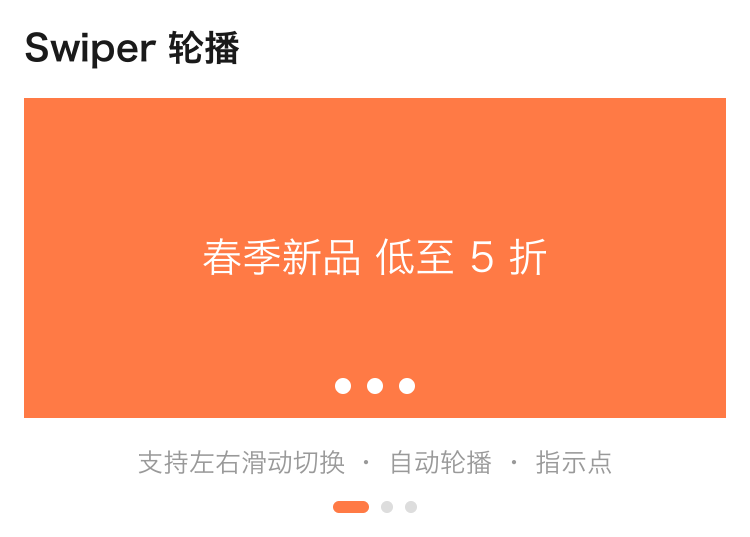
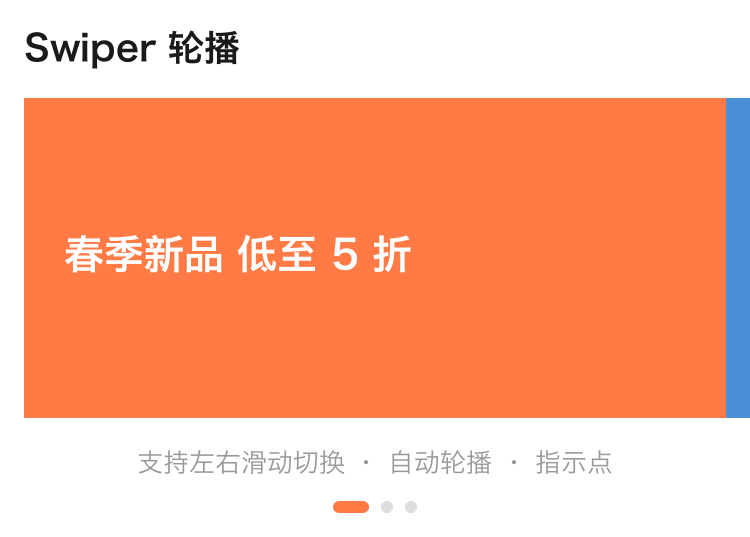
优化编译器

Changed region(s): [[0.092, 0.4171, 0.736, 0.5363], [0.9507, 0.1788, 1.0, 0.8045], [0.4293, 0.6853, 0.552, 0.7449]]

diff --git a/dist-news/pages/home/home.html b/dist-news/pages/home/home.html
@@ -77,6 +77,7 @@
           </div>
         </div>
       </div>
+      <div class="wx-swiper-dots"><i class="wx-swiper-dot active" style="background:#ffffff"></i><i class="wx-swiper-dot" style="background:rgba(255,255,255,0.5)"></i><i class="wx-swiper-dot" style="background:rgba(255,255,255,0.5)"></i></div>
     </div>
     <div class="wx-view top-news" data-tap="onOpenArticle" data-ds-id="9001">
       <span class="wx-text top-badge">置顶</span>
@@ -107,7 +108,7 @@
             <div class="wx-view meta-dot"></div>
             <span class="wx-text meta-comment">328评论</span>
             <div class="wx-view grow"></div>
-            <div class="wx-view act" data-tap="onToggleFav" data-ds-id="101" data-ds-title="国产大飞机再获百架订单 交付节奏明显加快">
+            <div class="wx-view act" data-tap="onToggleFav" data-ds-title="国产大飞机再获百架订单 交付节奏明显加快" data-ds-id="101">
               <i class="wx-icon wxicon wxicon-star_o" style="width:14px;height:14px;color:#bbbbbb"><svg viewBox="0 0 24 24" aria-hidden="true"><path d="M12 1.6 15.2 8.6 22.8 9.5 17.2 14.6 18.7 22 12 18.3 5.3 22 6.8 14.6 1.2 9.5 8.8 8.6Z" fill="none" stroke="currentColor" stroke-width="2" stroke-linejoin="round"/></svg></i>
             </div>
           </div>
@@ -153,7 +154,7 @@
             <div class="wx-view meta-dot"></div>
             <span class="wx-text meta-comment">241评论</span>
             <div class="wx-view grow"></div>
-            <div class="wx-view act" data-tap="onToggleFav" data-ds-id="104" data-ds-title="暑运客流创新高 铁路部门加开夜间高铁">
+            <div class="wx-view act" data-tap="onToggleFav" data-ds-title="暑运客流创新高 铁路部门加开夜间高铁" data-ds-id="104">
               <i class="wx-icon wxicon wxicon-star_o" style="width:14px;height:14px;color:#bbbbbb"><svg viewBox="0 0 24 24" aria-hidden="true"><path d="M12 1.6 15.2 8.6 22.8 9.5 17.2 14.6 18.7 22 12 18.3 5.3 22 6.8 14.6 1.2 9.5 8.8 8.6Z" fill="none" stroke="currentColor" stroke-width="2" stroke-linejoin="round"/></svg></i>
             </div>
           </div>
@@ -208,7 +209,7 @@
     <div class="wx-view bottom-space"></div>
   </div>
 </div>
-<nav class="wx-custom-tabbar"><div class="wx-view news-tabbar"><div class="wx-view tab-item tab-active" data-tap="switchTab" data-ds-path="pages/home/home" data-tabbar-href="../../pages/home/home.html" data-ds-index="0"><i class="wx-icon wxicon wxicon-success" style="width:22px;height:22px;color:#D43C33"><svg viewBox="0 0 24 24" aria-hidden="true"><circle cx="12" cy="12" r="12" fill="currentColor"/><path d="M5.8 12.4 10 16.4 18.2 7.6" fill="none" stroke="#fff" stroke-width="2.6" stroke-linecap="round" stroke-linejoin="round"/></svg></i><span class="wx-text tab-label tab-label-active">首页</span></div><div class="wx-view tab-item " data-tap="switchTab" data-ds-path="pages/video/video" data-tabbar-href="../../pages/video/video.html" data-ds-index="1"><i class="wx-icon wxicon wxicon-waiting" style="width:22px;height:22px;color:#B5B5B5"><svg viewBox="0 0 24 24" aria-hidden="true"><circle cx="12" cy="12" r="12" fill="currentColor"/><rect x="10.9" y="6.2" width="2.2" height="6.6" rx="1.1" fill="#fff"/><rect x="12" y="10.9" width="5.2" height="2.2" rx="1.1" fill="#fff"/><circle cx="12" cy="12" r="1.6" fill="#fff"/></svg></i><span class="wx-text tab-label ">视频</span></div><div class="wx-view tab-item " data-tap="switchTab" data-ds-path="pages/mine/mine" data-tabbar-href="../../pages/mine/mine.html" data-ds-index="2"><i class="wx-icon wxicon wxicon-info" style="width:22px;height:22px;color:#B5B5B5"><svg viewBox="0 0 24 24" aria-hidden="true"><circle cx="12" cy="12" r="12" fill="currentColor"/><circle cx="12" cy="7.6" r="1.7" fill="#fff"/><rect x="10.9" y="10.8" width="2.2" height="7" rx="1.1" fill="#fff"/></svg></i><span class="wx-text tab-label ">我的</span></div></div></nav>
+<nav class="wx-custom-tabbar"><div class="wx-view news-tabbar"><div class="wx-view tab-item tab-active" data-tap="switchTab" data-ds-index="0" data-ds-path="pages/home/home" data-tabbar-href="../../pages/home/home.html"><i class="wx-icon wxicon wxicon-success" style="width:22px;height:22px;color:#D43C33"><svg viewBox="0 0 24 24" aria-hidden="true"><circle cx="12" cy="12" r="12" fill="currentColor"/><path d="M5.8 12.4 10 16.4 18.2 7.6" fill="none" stroke="#fff" stroke-width="2.6" stroke-linecap="round" stroke-linejoin="round"/></svg></i><span class="wx-text tab-label tab-label-active">首页</span></div><div class="wx-view tab-item " data-tap="switchTab" data-ds-index="1" data-ds-path="pages/video/video" data-tabbar-href="../../pages/video/video.html"><i class="wx-icon wxicon wxicon-waiting" style="width:22px;height:22px;color:#B5B5B5"><svg viewBox="0 0 24 24" aria-hidden="true"><circle cx="12" cy="12" r="12" fill="currentColor"/><rect x="10.9" y="6.2" width="2.2" height="6.6" rx="1.1" fill="#fff"/><rect x="12" y="10.9" width="5.2" height="2.2" rx="1.1" fill="#fff"/><circle cx="12" cy="12" r="1.6" fill="#fff"/></svg></i><span class="wx-text tab-label ">视频</span></div><div class="wx-view tab-item " data-tap="switchTab" data-ds-index="2" data-ds-path="pages/mine/mine" data-tabbar-href="../../pages/mine/mine.html"><i class="wx-icon wxicon wxicon-info" style="width:22px;height:22px;color:#B5B5B5"><svg viewBox="0 0 24 24" aria-hidden="true"><circle cx="12" cy="12" r="12" fill="currentColor"/><circle cx="12" cy="7.6" r="1.7" fill="#fff"/><rect x="10.9" y="10.8" width="2.2" height="7" rx="1.1" fill="#fff"/></svg></i><span class="wx-text tab-label ">我的</span></div></div></nav>
 <script>
 (function(){var bar=document.currentScript&&document.currentScript.previousElementSibling;
 if(!bar||!bar.classList.contains('wx-custom-tabbar')){bar=document.querySelector('.wx-custom-tabbar');}

diff --git a/dist-html/pages/index/index.html b/dist-html/pages/index/index.html
@@ -56,6 +56,7 @@
             </div>
           </div>
         </div>
+        <div class="wx-swiper-dots"><i class="wx-swiper-dot active" style="background:#ffffff"></i><i class="wx-swiper-dot" style="background:rgba(255,255,255,0.5)"></i><i class="wx-swiper-dot" style="background:rgba(255,255,255,0.5)"></i></div>
       </div>
     </div>
     <div class="wx-view quick-card anim-fade-up">
@@ -564,7 +565,7 @@
     <div class="wx-view bottom-space"></div>
   </div>
 </div>
-<nav class="wx-custom-tabbar"><div class="wx-view custom-tabbar"><div class="wx-view tabbar-item active" data-tap="switchTab" data-ds-path="pages/index/index" data-tabbar-href="../../pages/index/index.html" data-ds-index="0"><i class="wx-icon wxicon wxicon-success" style="width:24px;height:24px;color:#FF6B35"><svg viewBox="0 0 24 24" aria-hidden="true"><circle cx="12" cy="12" r="12" fill="currentColor"/><path d="M5.8 12.4 10 16.4 18.2 7.6" fill="none" stroke="#fff" stroke-width="2.6" stroke-linecap="round" stroke-linejoin="round"/></svg></i><span class="wx-text tabbar-label label-active">首页</span></div><div class="wx-view tabbar-item " data-tap="switchTab" data-ds-path="pages/category/category" data-tabbar-href="../../pages/category/category.html" data-ds-index="1"><i class="wx-icon wxicon wxicon-info" style="width:24px;height:24px;color:#999"><svg viewBox="0 0 24 24" aria-hidden="true"><circle cx="12" cy="12" r="12" fill="currentColor"/><circle cx="12" cy="7.6" r="1.7" fill="#fff"/><rect x="10.9" y="10.8" width="2.2" height="7" rx="1.1" fill="#fff"/></svg></i><span class="wx-text tabbar-label ">分类</span></div><div class="wx-view tabbar-item " data-tap="switchTab" data-ds-index="2" data-ds-path="pages/cart/cart" data-tabbar-href="../../pages/cart/cart.html"><i class="wx-icon wxicon wxicon-waiting" style="width:24px;height:24px;color:#999"><svg viewBox="0 0 24 24" aria-hidden="true"><circle cx="12" cy="12" r="12" fill="currentColor"/><rect x="10.9" y="6.2" width="2.2" height="6.6" rx="1.1" fill="#fff"/><rect x="12" y="10.9" width="5.2" height="2.2" rx="1.1" fill="#fff"/><circle cx="12" cy="12" r="1.6" fill="#fff"/></svg></i><span class="wx-text tabbar-label ">购物车</span></div><div class="wx-view tabbar-item " data-tap="switchTab" data-ds-index="3" data-ds-path="pages/profile/profile" data-tabbar-href="../../pages/profile/profile.html"><i class="wx-icon wxicon wxicon-warn" style="width:24px;height:24px;color:#999"><svg viewBox="0 0 24 24" aria-hidden="true"><circle cx="12" cy="12" r="12" fill="currentColor"/><rect x="10.9" y="5.4" width="2.2" height="7.2" rx="1.1" fill="#fff"/><circle cx="12" cy="16.6" r="1.7" fill="#fff"/></svg></i><span class="wx-text tabbar-label ">我的</span></div></div></nav>
+<nav class="wx-custom-tabbar"><div class="wx-view custom-tabbar"><div class="wx-view tabbar-item active" data-tap="switchTab" data-ds-index="0" data-ds-path="pages/index/index" data-tabbar-href="../../pages/index/index.html"><i class="wx-icon wxicon wxicon-success" style="width:24px;height:24px;color:#FF6B35"><svg viewBox="0 0 24 24" aria-hidden="true"><circle cx="12" cy="12" r="12" fill="currentColor"/><path d="M5.8 12.4 10 16.4 18.2 7.6" fill="none" stroke="#fff" stroke-width="2.6" stroke-linecap="round" stroke-linejoin="round"/></svg></i><span class="wx-text tabbar-label label-active">首页</span></div><div class="wx-view tabbar-item " data-tap="switchTab" data-ds-path="pages/category/category" data-tabbar-href="../../pages/category/category.html" data-ds-index="1"><i class="wx-icon wxicon wxicon-info" style="width:24px;height:24px;color:#999"><svg viewBox="0 0 24 24" aria-hidden="true"><circle cx="12" cy="12" r="12" fill="currentColor"/><circle cx="12" cy="7.6" r="1.7" fill="#fff"/><rect x="10.9" y="10.8" width="2.2" height="7" rx="1.1" fill="#fff"/></svg></i><span class="wx-text tabbar-label ">分类</span></div><div class="wx-view tabbar-item " data-tap="switchTab" data-ds-index="2" data-ds-path="pages/cart/cart" data-tabbar-href="../../pages/cart/cart.html"><i class="wx-icon wxicon wxicon-waiting" style="width:24px;height:24px;color:#999"><svg viewBox="0 0 24 24" aria-hidden="true"><circle cx="12" cy="12" r="12" fill="currentColor"/><rect x="10.9" y="6.2" width="2.2" height="6.6" rx="1.1" fill="#fff"/><rect x="12" y="10.9" width="5.2" height="2.2" rx="1.1" fill="#fff"/><circle cx="12" cy="12" r="1.6" fill="#fff"/></svg></i><span class="wx-text tabbar-label ">购物车</span></div><div class="wx-view tabbar-item " data-tap="switchTab" data-ds-path="pages/profile/profile" data-tabbar-href="../../pages/profile/profile.html" data-ds-index="3"><i class="wx-icon wxicon wxicon-warn" style="width:24px;height:24px;color:#999"><svg viewBox="0 0 24 24" aria-hidden="true"><circle cx="12" cy="12" r="12" fill="currentColor"/><rect x="10.9" y="5.4" width="2.2" height="7.2" rx="1.1" fill="#fff"/><circle cx="12" cy="16.6" r="1.7" fill="#fff"/></svg></i><span class="wx-text tabbar-label ">我的</span></div></div></nav>
 <script>
 (function(){var bar=document.currentScript&&document.currentScript.previousElementSibling;
 if(!bar||!bar.classList.contains('wx-custom-tabbar')){bar=document.querySelector('.wx-custom-tabbar');}

diff --git a/dist-html/pages/profile/profile.html b/dist-html/pages/profile/profile.html
@@ -117,7 +117,7 @@
     <div class="wx-view bottom-space"></div>
   </div>
 </div>
-<nav class="wx-custom-tabbar"><div class="wx-view custom-tabbar"><div class="wx-view tabbar-item " data-tap="switchTab" data-ds-path="pages/index/index" data-tabbar-href="../../pages/index/index.html" data-ds-index="0"><i class="wx-icon wxicon wxicon-success" style="width:24px;height:24px;color:#999"><svg viewBox="0 0 24 24" aria-hidden="true"><circle cx="12" cy="12" r="12" fill="currentColor"/><path d="M5.8 12.4 10 16.4 18.2 7.6" fill="none" stroke="#fff" stroke-width="2.6" stroke-linecap="round" stroke-linejoin="round"/></svg></i><span class="wx-text tabbar-label ">首页</span></div><div class="wx-view tabbar-item " data-tap="switchTab" data-ds-path="pages/category/category" data-tabbar-href="../../pages/category/category.html" data-ds-index="1"><i class="wx-icon wxicon wxicon-info" style="width:24px;height:24px;color:#999"><svg viewBox="0 0 24 24" aria-hidden="true"><circle cx="12" cy="12" r="12" fill="currentColor"/><circle cx="12" cy="7.6" r="1.7" fill="#fff"/><rect x="10.9" y="10.8" width="2.2" height="7" rx="1.1" fill="#fff"/></svg></i><span class="wx-text tabbar-label ">分类</span></div><div class="wx-view tabbar-item " data-tap="switchTab" data-ds-index="2" data-ds-path="pages/cart/cart" data-tabbar-href="../../pages/cart/cart.html"><i class="wx-icon wxicon wxicon-waiting" style="width:24px;height:24px;color:#999"><svg viewBox="0 0 24 24" aria-hidden="true"><circle cx="12" cy="12" r="12" fill="currentColor"/><rect x="10.9" y="6.2" width="2.2" height="6.6" rx="1.1" fill="#fff"/><rect x="12" y="10.9" width="5.2" height="2.2" rx="1.1" fill="#fff"/><circle cx="12" cy="12" r="1.6" fill="#fff"/></svg></i><span class="wx-text tabbar-label ">购物车</span></div><div class="wx-view tabbar-item active" data-tap="switchTab" data-ds-index="3" data-ds-path="pages/profile/profile" data-tabbar-href="../../pages/profile/profile.html"><i class="wx-icon wxicon wxicon-warn" style="width:24px;height:24px;color:#FF6B35"><svg viewBox="0 0 24 24" aria-hidden="true"><circle cx="12" cy="12" r="12" fill="currentColor"/><rect x="10.9" y="5.4" width="2.2" height="7.2" rx="1.1" fill="#fff"/><circle cx="12" cy="16.6" r="1.7" fill="#fff"/></svg></i><span class="wx-text tabbar-label label-active">我的</span></div></div></nav>
+<nav class="wx-custom-tabbar"><div class="wx-view custom-tabbar"><div class="wx-view tabbar-item " data-tap="switchTab" data-ds-index="0" data-ds-path="pages/index/index" data-tabbar-href="../../pages/index/index.html"><i class="wx-icon wxicon wxicon-success" style="width:24px;height:24px;color:#999"><svg viewBox="0 0 24 24" aria-hidden="true"><circle cx="12" cy="12" r="12" fill="currentColor"/><path d="M5.8 12.4 10 16.4 18.2 7.6" fill="none" stroke="#fff" stroke-width="2.6" stroke-linecap="round" stroke-linejoin="round"/></svg></i><span class="wx-text tabbar-label ">首页</span></div><div class="wx-view tabbar-item " data-tap="switchTab" data-ds-index="1" data-ds-path="pages/category/category" data-tabbar-href="../../pages/category/category.html"><i class="wx-icon wxicon wxicon-info" style="width:24px;height:24px;color:#999"><svg viewBox="0 0 24 24" aria-hidden="true"><circle cx="12" cy="12" r="12" fill="currentColor"/><circle cx="12" cy="7.6" r="1.7" fill="#fff"/><rect x="10.9" y="10.8" width="2.2" height="7" rx="1.1" fill="#fff"/></svg></i><span class="wx-text tabbar-label ">分类</span></div><div class="wx-view tabbar-item " data-tap="switchTab" data-ds-path="pages/cart/cart" data-tabbar-href="../../pages/cart/cart.html" data-ds-index="2"><i class="wx-icon wxicon wxicon-waiting" style="width:24px;height:24px;color:#999"><svg viewBox="0 0 24 24" aria-hidden="true"><circle cx="12" cy="12" r="12" fill="currentColor"/><rect x="10.9" y="6.2" width="2.2" height="6.6" rx="1.1" fill="#fff"/><rect x="12" y="10.9" width="5.2" height="2.2" rx="1.1" fill="#fff"/><circle cx="12" cy="12" r="1.6" fill="#fff"/></svg></i><span class="wx-text tabbar-label ">购物车</span></div><div class="wx-view tabbar-item active" data-tap="switchTab" data-ds-index="3" data-ds-path="pages/profile/profile" data-tabbar-href="../../pages/profile/profile.html"><i class="wx-icon wxicon wxicon-warn" style="width:24px;height:24px;color:#FF6B35"><svg viewBox="0 0 24 24" aria-hidden="true"><circle cx="12" cy="12" r="12" fill="currentColor"/><rect x="10.9" y="5.4" width="2.2" height="7.2" rx="1.1" fill="#fff"/><circle cx="12" cy="16.6" r="1.7" fill="#fff"/></svg></i><span class="wx-text tabbar-label label-active">我的</span></div></div></nav>
 <script>
 (function(){var bar=document.currentScript&&document.currentScript.previousElementSibling;
 if(!bar||!bar.classList.contains('wx-custom-tabbar')){bar=document.querySelector('.wx-custom-tabbar');}

diff --git a/dist-html/pages/category/category.html b/dist-html/pages/category/category.html
@@ -145,7 +145,7 @@
     </div>
   </div>
 </div>
-<nav class="wx-custom-tabbar"><div class="wx-view custom-tabbar"><div class="wx-view tabbar-item " data-tap="switchTab" data-ds-index="0" data-ds-path="pages/index/index" data-tabbar-href="../../pages/index/index.html"><i class="wx-icon wxicon wxicon-success" style="width:24px;height:24px;color:#999"><svg viewBox="0 0 24 24" aria-hidden="true"><circle cx="12" cy="12" r="12" fill="currentColor"/><path d="M5.8 12.4 10 16.4 18.2 7.6" fill="none" stroke="#fff" stroke-width="2.6" stroke-linecap="round" stroke-linejoin="round"/></svg></i><span class="wx-text tabbar-label ">首页</span></div><div class="wx-view tabbar-item active" data-tap="switchTab" data-ds-path="pages/category/category" data-tabbar-href="../../pages/category/category.html" data-ds-index="1"><i class="wx-icon wxicon wxicon-info" style="width:24px;height:24px;color:#FF6B35"><svg viewBox="0 0 24 24" aria-hidden="true"><circle cx="12" cy="12" r="12" fill="currentColor"/><circle cx="12" cy="7.6" r="1.7" fill="#fff"/><rect x="10.9" y="10.8" width="2.2" height="7" rx="1.1" fill="#fff"/></svg></i><span class="wx-text tabbar-label label-active">分类</span></div><div class="wx-view tabbar-item " data-tap="switchTab" data-ds-path="pages/cart/cart" data-tabbar-href="../../pages/cart/cart.html" data-ds-index="2"><i class="wx-icon wxicon wxicon-waiting" style="width:24px;height:24px;color:#999"><svg viewBox="0 0 24 24" aria-hidden="true"><circle cx="12" cy="12" r="12" fill="currentColor"/><rect x="10.9" y="6.2" width="2.2" height="6.6" rx="1.1" fill="#fff"/><rect x="12" y="10.9" width="5.2" height="2.2" rx="1.1" fill="#fff"/><circle cx="12" cy="12" r="1.6" fill="#fff"/></svg></i><span class="wx-text tabbar-label ">购物车</span></div><div class="wx-view tabbar-item " data-tap="switchTab" data-ds-index="3" data-ds-path="pages/profile/profile" data-tabbar-href="../../pages/profile/profile.html"><i class="wx-icon wxicon wxicon-warn" style="width:24px;height:24px;color:#999"><svg viewBox="0 0 24 24" aria-hidden="true"><circle cx="12" cy="12" r="12" fill="currentColor"/><rect x="10.9" y="5.4" width="2.2" height="7.2" rx="1.1" fill="#fff"/><circle cx="12" cy="16.6" r="1.7" fill="#fff"/></svg></i><span class="wx-text tabbar-label ">我的</span></div></div></nav>
+<nav class="wx-custom-tabbar"><div class="wx-view custom-tabbar"><div class="wx-view tabbar-item " data-tap="switchTab" data-ds-path="pages/index/index" data-tabbar-href="../../pages/index/index.html" data-ds-index="0"><i class="wx-icon wxicon wxicon-success" style="width:24px;height:24px;color:#999"><svg viewBox="0 0 24 24" aria-hidden="true"><circle cx="12" cy="12" r="12" fill="currentColor"/><path d="M5.8 12.4 10 16.4 18.2 7.6" fill="none" stroke="#fff" stroke-width="2.6" stroke-linecap="round" stroke-linejoin="round"/></svg></i><span class="wx-text tabbar-label ">首页</span></div><div class="wx-view tabbar-item active" data-tap="switchTab" data-ds-path="pages/category/category" data-tabbar-href="../../pages/category/category.html" data-ds-index="1"><i class="wx-icon wxicon wxicon-info" style="width:24px;height:24px;color:#FF6B35"><svg viewBox="0 0 24 24" aria-hidden="true"><circle cx="12" cy="12" r="12" fill="currentColor"/><circle cx="12" cy="7.6" r="1.7" fill="#fff"/><rect x="10.9" y="10.8" width="2.2" height="7" rx="1.1" fill="#fff"/></svg></i><span class="wx-text tabbar-label label-active">分类</span></div><div class="wx-view tabbar-item " data-tap="switchTab" data-ds-index="2" data-ds-path="pages/cart/cart" data-tabbar-href="../../pages/cart/cart.html"><i class="wx-icon wxicon wxicon-waiting" style="width:24px;height:24px;color:#999"><svg viewBox="0 0 24 24" aria-hidden="true"><circle cx="12" cy="12" r="12" fill="currentColor"/><rect x="10.9" y="6.2" width="2.2" height="6.6" rx="1.1" fill="#fff"/><rect x="12" y="10.9" width="5.2" height="2.2" rx="1.1" fill="#fff"/><circle cx="12" cy="12" r="1.6" fill="#fff"/></svg></i><span class="wx-text tabbar-label ">购物车</span></div><div class="wx-view tabbar-item " data-tap="switchTab" data-ds-path="pages/profile/profile" data-tabbar-href="../../pages/profile/profile.html" data-ds-index="3"><i class="wx-icon wxicon wxicon-warn" style="width:24px;height:24px;color:#999"><svg viewBox="0 0 24 24" aria-hidden="true"><circle cx="12" cy="12" r="12" fill="currentColor"/><rect x="10.9" y="5.4" width="2.2" height="7.2" rx="1.1" fill="#fff"/><circle cx="12" cy="16.6" r="1.7" fill="#fff"/></svg></i><span class="wx-text tabbar-label ">我的</span></div></div></nav>
 <script>
 (function(){var bar=document.currentScript&&document.currentScript.previousElementSibling;
 if(!bar||!bar.classList.contains('wx-custom-tabbar')){bar=document.querySelector('.wx-custom-tabbar');}

diff --git a/dist-html/pages/cart/cart.html b/dist-html/pages/cart/cart.html
@@ -25,7 +25,7 @@
     </div>
   </div>
 </div>
-<nav class="wx-custom-tabbar"><div class="wx-view custom-tabbar"><div class="wx-view tabbar-item " data-tap="switchTab" data-ds-index="0" data-ds-path="pages/index/index" data-tabbar-href="../../pages/index/index.html"><i class="wx-icon wxicon wxicon-success" style="width:24px;height:24px;color:#999"><svg viewBox="0 0 24 24" aria-hidden="true"><circle cx="12" cy="12" r="12" fill="currentColor"/><path d="M5.8 12.4 10 16.4 18.2 7.6" fill="none" stroke="#fff" stroke-width="2.6" stroke-linecap="round" stroke-linejoin="round"/></svg></i><span class="wx-text tabbar-label ">首页</span></div><div class="wx-view tabbar-item " data-tap="switchTab" data-ds-path="pages/category/category" data-tabbar-href="../../pages/category/category.html" data-ds-index="1"><i class="wx-icon wxicon wxicon-info" style="width:24px;height:24px;color:#999"><svg viewBox="0 0 24 24" aria-hidden="true"><circle cx="12" cy="12" r="12" fill="currentColor"/><circle cx="12" cy="7.6" r="1.7" fill="#fff"/><rect x="10.9" y="10.8" width="2.2" height="7" rx="1.1" fill="#fff"/></svg></i><span class="wx-text tabbar-label ">分类</span></div><div class="wx-view tabbar-item active" data-tap="switchTab" data-ds-index="2" data-ds-path="pages/cart/cart" data-tabbar-href="../../pages/cart/cart.html"><i class="wx-icon wxicon wxicon-waiting" style="width:24px;height:24px;color:#FF6B35"><svg viewBox="0 0 24 24" aria-hidden="true"><circle cx="12" cy="12" r="12" fill="currentColor"/><rect x="10.9" y="6.2" width="2.2" height="6.6" rx="1.1" fill="#fff"/><rect x="12" y="10.9" width="5.2" height="2.2" rx="1.1" fill="#fff"/><circle cx="12" cy="12" r="1.6" fill="#fff"/></svg></i><span class="wx-text tabbar-label label-active">购物车</span></div><div class="wx-view tabbar-item " data-tap="switchTab" data-ds-index="3" data-ds-path="pages/profile/profile" data-tabbar-href="../../pages/profile/profile.html"><i class="wx-icon wxicon wxicon-warn" style="width:24px;height:24px;color:#999"><svg viewBox="0 0 24 24" aria-hidden="true"><circle cx="12" cy="12" r="12" fill="currentColor"/><rect x="10.9" y="5.4" width="2.2" height="7.2" rx="1.1" fill="#fff"/><circle cx="12" cy="16.6" r="1.7" fill="#fff"/></svg></i><span class="wx-text tabbar-label ">我的</span></div></div></nav>
+<nav class="wx-custom-tabbar"><div class="wx-view custom-tabbar"><div class="wx-view tabbar-item " data-tap="switchTab" data-ds-path="pages/index/index" data-tabbar-href="../../pages/index/index.html" data-ds-index="0"><i class="wx-icon wxicon wxicon-success" style="width:24px;height:24px;color:#999"><svg viewBox="0 0 24 24" aria-hidden="true"><circle cx="12" cy="12" r="12" fill="currentColor"/><path d="M5.8 12.4 10 16.4 18.2 7.6" fill="none" stroke="#fff" stroke-width="2.6" stroke-linecap="round" stroke-linejoin="round"/></svg></i><span class="wx-text tabbar-label ">首页</span></div><div class="wx-view tabbar-item " data-tap="switchTab" data-ds-path="pages/category/category" data-tabbar-href="../../pages/category/category.html" data-ds-index="1"><i class="wx-icon wxicon wxicon-info" style="width:24px;height:24px;color:#999"><svg viewBox="0 0 24 24" aria-hidden="true"><circle cx="12" cy="12" r="12" fill="currentColor"/><circle cx="12" cy="7.6" r="1.7" fill="#fff"/><rect x="10.9" y="10.8" width="2.2" height="7" rx="1.1" fill="#fff"/></svg></i><span class="wx-text tabbar-label ">分类</span></div><div class="wx-view tabbar-item active" data-tap="switchTab" data-ds-index="2" data-ds-path="pages/cart/cart" data-tabbar-href="../../pages/cart/cart.html"><i class="wx-icon wxicon wxicon-waiting" style="width:24px;height:24px;color:#FF6B35"><svg viewBox="0 0 24 24" aria-hidden="true"><circle cx="12" cy="12" r="12" fill="currentColor"/><rect x="10.9" y="6.2" width="2.2" height="6.6" rx="1.1" fill="#fff"/><rect x="12" y="10.9" width="5.2" height="2.2" rx="1.1" fill="#fff"/><circle cx="12" cy="12" r="1.6" fill="#fff"/></svg></i><span class="wx-text tabbar-label label-active">购物车</span></div><div class="wx-view tabbar-item " data-tap="switchTab" data-ds-path="pages/profile/profile" data-tabbar-href="../../pages/profile/profile.html" data-ds-index="3"><i class="wx-icon wxicon wxicon-warn" style="width:24px;height:24px;color:#999"><svg viewBox="0 0 24 24" aria-hidden="true"><circle cx="12" cy="12" r="12" fill="currentColor"/><rect x="10.9" y="5.4" width="2.2" height="7.2" rx="1.1" fill="#fff"/><circle cx="12" cy="16.6" r="1.7" fill="#fff"/></svg></i><span class="wx-text tabbar-label ">我的</span></div></div></nav>
 <script>
 (function(){var bar=document.currentScript&&document.currentScript.previousElementSibling;
 if(!bar||!bar.classList.contains('wx-custom-tabbar')){bar=document.querySelector('.wx-custom-tabbar');}

diff --git a/dist-news/pages/video/video.html b/dist-news/pages/video/video.html
@@ -102,7 +102,7 @@
         <div class="wx-view meta-dot"></div>
         <span class="wx-text meta-comment">274评论</span>
         <div class="wx-view grow"></div>
-        <div class="wx-view act" data-tap="onToggleFav" data-ds-title="老街区改造前后对比，变化令人惊叹" data-ds-id="503">
+        <div class="wx-view act" data-tap="onToggleFav" data-ds-id="503" data-ds-title="老街区改造前后对比，变化令人惊叹">
           <i class="wx-icon wxicon wxicon-star_o" style="width:14px;height:14px;color:#bbbbbb"><svg viewBox="0 0 24 24" aria-hidden="true"><path d="M12 1.6 15.2 8.6 22.8 9.5 17.2 14.6 18.7 22 12 18.3 5.3 22 6.8 14.6 1.2 9.5 8.8 8.6Z" fill="none" stroke="currentColor" stroke-width="2" stroke-linejoin="round"/></svg></i>
         </div>
       </div>
@@ -110,7 +110,7 @@
     <div class="wx-view bottom-space"></div>
   </div>
 </div>
-<nav class="wx-custom-tabbar"><div class="wx-view news-tabbar"><div class="wx-view tab-item " data-tap="switchTab" data-ds-index="0" data-ds-path="pages/home/home" data-tabbar-href="../../pages/home/home.html"><i class="wx-icon wxicon wxicon-success" style="width:22px;height:22px;color:#B5B5B5"><svg viewBox="0 0 24 24" aria-hidden="true"><circle cx="12" cy="12" r="12" fill="currentColor"/><path d="M5.8 12.4 10 16.4 18.2 7.6" fill="none" stroke="#fff" stroke-width="2.6" stroke-linecap="round" stroke-linejoin="round"/></svg></i><span class="wx-text tab-label ">首页</span></div><div class="wx-view tab-item tab-active" data-tap="switchTab" data-ds-index="1" data-ds-path="pages/video/video" data-tabbar-href="../../pages/video/video.html"><i class="wx-icon wxicon wxicon-waiting" style="width:22px;height:22px;color:#D43C33"><svg viewBox="0 0 24 24" aria-hidden="true"><circle cx="12" cy="12" r="12" fill="currentColor"/><rect x="10.9" y="6.2" width="2.2" height="6.6" rx="1.1" fill="#fff"/><rect x="12" y="10.9" width="5.2" height="2.2" rx="1.1" fill="#fff"/><circle cx="12" cy="12" r="1.6" fill="#fff"/></svg></i><span class="wx-text tab-label tab-label-active">视频</span></div><div class="wx-view tab-item " data-tap="switchTab" data-ds-index="2" data-ds-path="pages/mine/mine" data-tabbar-href="../../pages/mine/mine.html"><i class="wx-icon wxicon wxicon-info" style="width:22px;height:22px;color:#B5B5B5"><svg viewBox="0 0 24 24" aria-hidden="true"><circle cx="12" cy="12" r="12" fill="currentColor"/><circle cx="12" cy="7.6" r="1.7" fill="#fff"/><rect x="10.9" y="10.8" width="2.2" height="7" rx="1.1" fill="#fff"/></svg></i><span class="wx-text tab-label ">我的</span></div></div></nav>
+<nav class="wx-custom-tabbar"><div class="wx-view news-tabbar"><div class="wx-view tab-item " data-tap="switchTab" data-ds-path="pages/home/home" data-tabbar-href="../../pages/home/home.html" data-ds-index="0"><i class="wx-icon wxicon wxicon-success" style="width:22px;height:22px;color:#B5B5B5"><svg viewBox="0 0 24 24" aria-hidden="true"><circle cx="12" cy="12" r="12" fill="currentColor"/><path d="M5.8 12.4 10 16.4 18.2 7.6" fill="none" stroke="#fff" stroke-width="2.6" stroke-linecap="round" stroke-linejoin="round"/></svg></i><span class="wx-text tab-label ">首页</span></div><div class="wx-view tab-item tab-active" data-tap="switchTab" data-ds-index="1" data-ds-path="pages/video/video" data-tabbar-href="../../pages/video/video.html"><i class="wx-icon wxicon wxicon-waiting" style="width:22px;height:22px;color:#D43C33"><svg viewBox="0 0 24 24" aria-hidden="true"><circle cx="12" cy="12" r="12" fill="currentColor"/><rect x="10.9" y="6.2" width="2.2" height="6.6" rx="1.1" fill="#fff"/><rect x="12" y="10.9" width="5.2" height="2.2" rx="1.1" fill="#fff"/><circle cx="12" cy="12" r="1.6" fill="#fff"/></svg></i><span class="wx-text tab-label tab-label-active">视频</span></div><div class="wx-view tab-item " data-tap="switchTab" data-ds-path="pages/mine/mine" data-tabbar-href="../../pages/mine/mine.html" data-ds-index="2"><i class="wx-icon wxicon wxicon-info" style="width:22px;height:22px;color:#B5B5B5"><svg viewBox="0 0 24 24" aria-hidden="true"><circle cx="12" cy="12" r="12" fill="currentColor"/><circle cx="12" cy="7.6" r="1.7" fill="#fff"/><rect x="10.9" y="10.8" width="2.2" height="7" rx="1.1" fill="#fff"/></svg></i><span class="wx-text tab-label ">我的</span></div></div></nav>
 <script>
 (function(){var bar=document.currentScript&&document.currentScript.previousElementSibling;
 if(!bar||!bar.classList.contains('wx-custom-tabbar')){bar=document.querySelector('.wx-custom-tabbar');}

diff --git a/dist-news/pages/mine/mine.html b/dist-news/pages/mine/mine.html
@@ -87,7 +87,7 @@
     <div class="wx-view bottom-space"></div>
   </div>
 </div>
-<nav class="wx-custom-tabbar"><div class="wx-view news-tabbar"><div class="wx-view tab-item " data-tap="switchTab" data-ds-index="0" data-ds-path="pages/home/home" data-tabbar-href="../../pages/home/home.html"><i class="wx-icon wxicon wxicon-success" style="width:22px;height:22px;color:#B5B5B5"><svg viewBox="0 0 24 24" aria-hidden="true"><circle cx="12" cy="12" r="12" fill="currentColor"/><path d="M5.8 12.4 10 16.4 18.2 7.6" fill="none" stroke="#fff" stroke-width="2.6" stroke-linecap="round" stroke-linejoin="round"/></svg></i><span class="wx-text tab-label ">首页</span></div><div class="wx-view tab-item " data-tap="switchTab" data-ds-index="1" data-ds-path="pages/video/video" data-tabbar-href="../../pages/video/video.html"><i class="wx-icon wxicon wxicon-waiting" style="width:22px;height:22px;color:#B5B5B5"><svg viewBox="0 0 24 24" aria-hidden="true"><circle cx="12" cy="12" r="12" fill="currentColor"/><rect x="10.9" y="6.2" width="2.2" height="6.6" rx="1.1" fill="#fff"/><rect x="12" y="10.9" width="5.2" height="2.2" rx="1.1" fill="#fff"/><circle cx="12" cy="12" r="1.6" fill="#fff"/></svg></i><span class="wx-text tab-label ">视频</span></div><div class="wx-view tab-item tab-active" data-tap="switchTab" data-ds-index="2" data-ds-path="pages/mine/mine" data-tabbar-href="../../pages/mine/mine.html"><i class="wx-icon wxicon wxicon-info" style="width:22px;height:22px;color:#D43C33"><svg viewBox="0 0 24 24" aria-hidden="true"><circle cx="12" cy="12" r="12" fill="currentColor"/><circle cx="12" cy="7.6" r="1.7" fill="#fff"/><rect x="10.9" y="10.8" width="2.2" height="7" rx="1.1" fill="#fff"/></svg></i><span class="wx-text tab-label tab-label-active">我的</span></div></div></nav>
+<nav class="wx-custom-tabbar"><div class="wx-view news-tabbar"><div class="wx-view tab-item " data-tap="switchTab" data-ds-path="pages/home/home" data-tabbar-href="../../pages/home/home.html" data-ds-index="0"><i class="wx-icon wxicon wxicon-success" style="width:22px;height:22px;color:#B5B5B5"><svg viewBox="0 0 24 24" aria-hidden="true"><circle cx="12" cy="12" r="12" fill="currentColor"/><path d="M5.8 12.4 10 16.4 18.2 7.6" fill="none" stroke="#fff" stroke-width="2.6" stroke-linecap="round" stroke-linejoin="round"/></svg></i><span class="wx-text tab-label ">首页</span></div><div class="wx-view tab-item " data-tap="switchTab" data-ds-index="1" data-ds-path="pages/video/video" data-tabbar-href="../../pages/video/video.html"><i class="wx-icon wxicon wxicon-waiting" style="width:22px;height:22px;color:#B5B5B5"><svg viewBox="0 0 24 24" aria-hidden="true"><circle cx="12" cy="12" r="12" fill="currentColor"/><rect x="10.9" y="6.2" width="2.2" height="6.6" rx="1.1" fill="#fff"/><rect x="12" y="10.9" width="5.2" height="2.2" rx="1.1" fill="#fff"/><circle cx="12" cy="12" r="1.6" fill="#fff"/></svg></i><span class="wx-text tab-label ">视频</span></div><div class="wx-view tab-item tab-active" data-tap="switchTab" data-ds-index="2" data-ds-path="pages/mine/mine" data-tabbar-href="../../pages/mine/mine.html"><i class="wx-icon wxicon wxicon-info" style="width:22px;height:22px;color:#D43C33"><svg viewBox="0 0 24 24" aria-hidden="true"><circle cx="12" cy="12" r="12" fill="currentColor"/><circle cx="12" cy="7.6" r="1.7" fill="#fff"/><rect x="10.9" y="10.8" width="2.2" height="7" rx="1.1" fill="#fff"/></svg></i><span class="wx-text tab-label tab-label-active">我的</span></div></div></nav>
 <script>
 (function(){var bar=document.currentScript&&document.currentScript.previousElementSibling;
 if(!bar||!bar.classList.contains('wx-custom-tabbar')){bar=document.querySelector('.wx-custom-tabbar');}

diff --git a/dist-html/common/base.css b/dist-html/common/base.css
@@ -28,7 +28,7 @@ body{font-size:16px;color:#333;font-family:-apple-system,system-ui,"PingFang SC"
 .wx-button-disabled{opacity:.5;pointer-events:none;}
 
 /* ── swiper 轮播：横向 scroll-snap，一屏一页 ── */
-.wx-swiper{display:flex;flex-direction:row;flex-wrap:nowrap;overflow-x:auto;overflow-y:hidden;height:150px;scroll-snap-type:x mandatory;scroll-behavior:smooth;-webkit-overflow-scrolling:touch;scrollbar-width:none;}
+.wx-swiper{position:relative;display:flex;flex-direction:row;flex-wrap:nowrap;overflow-x:auto;overflow-y:hidden;height:150px;scroll-snap-type:x mandatory;scroll-behavior:smooth;-webkit-overflow-scrolling:touch;scrollbar-width:none;}
 .wx-swiper::-webkit-scrollbar{display:none;width:0;height:0;}
 .wx-swiper[data-vertical="true"]{flex-direction:column;overflow-x:hidden;overflow-y:auto;scroll-snap-type:y mandatory;}
 .wx-swiper-item{flex:0 0 100%;width:100%;min-width:100%;height:100%;scroll-snap-align:start;display:flex;flex-direction:column;}

diff --git a/dist-news/common/base.css b/dist-news/common/base.css
@@ -28,7 +28,7 @@ body{font-size:16px;color:#333;font-family:-apple-system,system-ui,"PingFang SC"
 .wx-button-disabled{opacity:.5;pointer-events:none;}
 
 /* ── swiper 轮播：横向 scroll-snap，一屏一页 ── */
-.wx-swiper{display:flex;flex-direction:row;flex-wrap:nowrap;overflow-x:auto;overflow-y:hidden;height:150px;scroll-snap-type:x mandatory;scroll-behavior:smooth;-webkit-overflow-scrolling:touch;scrollbar-width:none;}
+.wx-swiper{position:relative;display:flex;flex-direction:row;flex-wrap:nowrap;overflow-x:auto;overflow-y:hidden;height:150px;scroll-snap-type:x mandatory;scroll-behavior:smooth;-webkit-overflow-scrolling:touch;scrollbar-width:none;}
 .wx-swiper::-webkit-scrollbar{display:none;width:0;height:0;}
 .wx-swiper[data-vertical="true"]{flex-direction:column;overflow-x:hidden;overflow-y:auto;scroll-snap-type:y mandatory;}
 .wx-swiper-item{flex:0 0 100%;width:100%;min-width:100%;height:100%;scroll-snap-align:start;display:flex;flex-direction:column;}

diff --git a/dist-html/pages/search/search.html b/dist-html/pages/search/search.html
@@ -20,7 +20,7 @@
       </div>
       <div class="wx-view search-box">
         <i class="wx-icon wxicon wxicon-search" style="width:14px;height:14px;color:#999"><svg viewBox="0 0 24 24" aria-hidden="true"><circle cx="10.4" cy="10.4" r="6.4" fill="none" stroke="currentColor" stroke-width="2.4"/><path d="M15.2 15.2 21 21" stroke="currentColor" stroke-width="2.4" stroke-linecap="round"/></svg></i>
-        <input class="wx-input search-input" type="text" value="" placeholder="搜索商品 / 品牌" data-input="onInput" data-confirm="onSearch">
+        <input class="wx-input search-input" type="text" value="" placeholder="搜索商品 / 品牌" data-confirm="onSearch" data-input="onInput">
       </div>
       <span class="wx-text search-go" data-tap="onSearch">搜索</span>
     </div>

diff --git a/dist-html/pages/detail/detail.html b/dist-html/pages/detail/detail.html
@@ -34,6 +34,7 @@
         <div class="wx-swiper-item">
           <img class="wx-image gallery-img" style="object-fit:cover" src="/assets/p_coffee.jpg">
         </div>
+        <div class="wx-swiper-dots"><i class="wx-swiper-dot active" style="background:#FF6B35"></i><i class="wx-swiper-dot" style="background:rgba(0,0,0,0.2)"></i><i class="wx-swiper-dot" style="background:rgba(0,0,0,0.2)"></i></div>
       </div>
       <div class="wx-view price-card">
         <div class="wx-view row">

diff --git a/dist-html/pages/form/form.html b/dist-html/pages/form/form.html
@@ -94,7 +94,7 @@
     </div>
     <div class="wx-view section">
       <span class="wx-text section-title">form 表单提交</span>
-      <div class="wx-form" data-reset="onReset2" data-submit="onSubmit">
+      <div class="wx-form" data-submit="onSubmit" data-reset="onReset2">
         <input class="wx-input field" type="text" placeholder="用户名">
         <input class="wx-input field" type="number" placeholder="手机号">
         <div class="wx-view form-actions">
